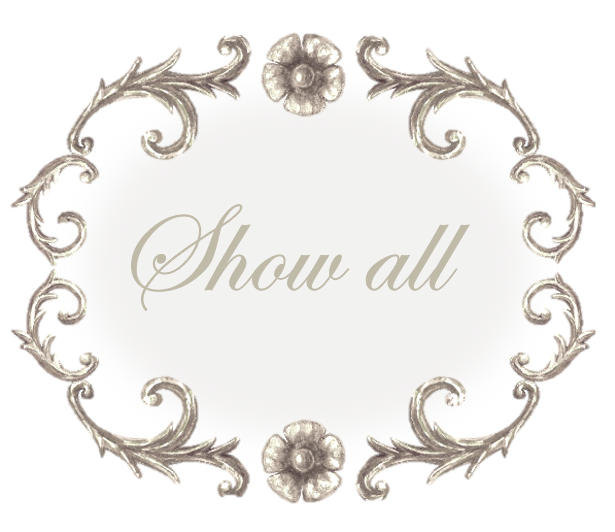
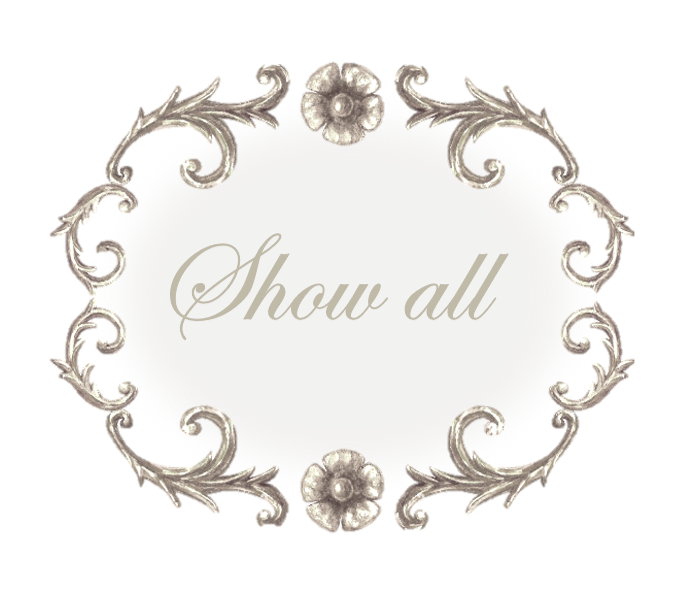
Cursors.

Changed region(s): [[0.0, 0.0602, 0.9886, 0.9624], [0.2163, 0.3609, 0.5561, 0.5714], [0.587, 0.4211, 0.7724, 0.5414]]

diff --git a/styles.css b/styles.css
@@ -5,6 +5,10 @@
     padding: 0;
 }
 
+html {
+    cursor: url("Images/Cursor.png"), auto;
+}
+
 #navbar {
     position: fixed;
     background-color: pink;
@@ -41,7 +45,7 @@
     background-repeat: no-repeat;
     background-position: bottom -2vw right -11vw;
     animation: pulse 1s linear infinite;
-    cursor: pointer;
+    cursor: url("Images/Cursor-pointer.png"), auto;
 }
 
 .left-side-decoration {
@@ -220,6 +224,7 @@
     opacity: 0;
     transition: all 300ms ease-in-out;
     cursor: pointer;
+    cursor: url("Images/Cursor-pointer.png"), auto;
 }
 
 /*END ABOUT*/
@@ -234,7 +239,46 @@
     background-repeat: no-repeat;
 }
 
+.divisor-margin {
+    display: flex;
+    justify-content: center;
+    align-items: center;
+    position: relative;
+}
+
 /*PROJECTS*/
+
+.projects-title {
+    height: 10vw;
+    width: 30%;
+    background-image: url(Images/Projects-title.png);
+    background-size: contain;
+    background-position: center;
+    background-repeat: no-repeat;
+    position: absolute;
+    z-index: 1;
+    margin-bottom: 0.5vw;
+}
+
+.projects-button {
+    width: 11vw;
+    height: 11vw;
+    position: absolute;
+    margin-right: 7vw;
+    margin-top: 13vw;
+    background-image: url(Images/Show-all.png);
+    background-size: contain;
+    background-position: center;
+    background-repeat: no-repeat;
+    transition: all 500ms;
+    cursor: pointer;
+}
+
+.projects-button:hover {
+    background-image: url(Images/Show-all-hover.png);
+    transform: scale(110%);
+    cursor: url("Images/Cursor-pointer.png"), auto;
+}
 
 .small-project {
     width: 7.5vw;
@@ -654,6 +698,7 @@
 .projects-container:has(.magazine-project:hover)>.project-container .magazine-project-description {
     opacity: 1;
     transition: all 500ms ease-in-out;
+    cursor: url("Images/Cursor-pointer.png"), auto;
 }
 
 .projects-container:has(.magazine-project:hover)>div.projects_backgrounds {
@@ -674,6 +719,7 @@
     opacity: 1;
     filter: blur(9px);
     transition: all 300ms ease-in-out;
+    cursor: url("Images/Cursor-pointer.png"), auto;
 }
 
 .projects-container:has(.lps-project:hover)>div.projects_backgrounds {
@@ -684,6 +730,7 @@
     opacity: 1;
     filter: blur(9px);
     transition: all 300ms ease-in-out;
+    cursor: url("Images/Cursor-pointer.png"), auto;
 }
 
 .projects-container:has(.registration-project:hover)>div.projects_backgrounds {
@@ -694,6 +741,7 @@
     opacity: 1;
     filter: blur(9px);
     transition: all 300ms ease-in-out;
+    cursor: url("Images/Cursor-pointer.png"), auto;
 }
 
 .projects-container:has(.survey-project:hover)>div.projects_backgrounds {
@@ -704,6 +752,7 @@
     opacity: 1;
     filter: blur(9px);
     transition: all 300ms ease-in-out;
+    cursor: url("Images/Cursor-pointer.png"), auto;
 }
 
 .projects-container:has(.beautymorphosy-project:hover)>div.projects_backgrounds {
@@ -714,6 +763,7 @@
     opacity: 1;
     filter: blur(9px);
     transition: all 300ms ease-in-out;
+    cursor: url("Images/Cursor-pointer.png"), auto;
 }
 
 .projects-container:has(.tribute-project:hover)>div.projects_backgrounds {
@@ -724,6 +774,7 @@
     opacity: 1;
     filter: blur(9px);
     transition: all 300ms ease-in-out;
+    cursor: url("Images/Cursor-pointer.png"), auto;
 }
 
 .projects-container:has(.ferris-wheel-project:hover)>div.projects_backgrounds {
@@ -734,6 +785,7 @@
     opacity: 1;
     filter: blur(9px);
     transition: all 300ms ease-in-out;
+    cursor: url("Images/Cursor-pointer.png"), auto;
 }
 
 .projects-container:has(.nutrition-project:hover)>div.projects_backgrounds {
@@ -744,6 +796,7 @@
     opacity: 1;
     filter: blur(9px);
     transition: all 300ms ease-in-out;
+    cursor: url("Images/Cursor-pointer.png"), auto;
 }
 
 .projects-container:has(.piano-project:hover)>div.projects_backgrounds {
@@ -754,6 +807,7 @@
     opacity: 1;
     filter: blur(9px);
     transition: all 300ms ease-in-out;
+    cursor: url("Images/Cursor-pointer.png"), auto;
 }
 
 .projects-container:has(.documentation-project:hover)>div.projects_backgrounds {
@@ -764,6 +818,7 @@
     opacity: 1;
     filter: blur(9px);
     transition: all 300ms ease-in-out;
+    cursor: url("Images/Cursor-pointer.png"), auto;
 }
 
 .projects-container:has(.memotest-project:hover)>div.projects_backgrounds {
@@ -774,6 +829,7 @@
     opacity: 1;
     filter: blur(9px);
     transition: all 300ms ease-in-out;
+    cursor: url("Images/Cursor-pointer.png"), auto;
 }
 
 .projects-container:has(.majesties-project:hover)>div.projects_backgrounds {
@@ -784,6 +840,7 @@
     opacity: 1;
     filter: blur(9px);
     transition: all 300ms ease-in-out;
+    cursor: url("Images/Cursor-pointer.png"), auto;
 }
 
 

diff --git a/portfolio.html b/portfolio.html
@@ -66,7 +66,9 @@
                 </div>
             </div>
         </section>
-        <div class="divisor-margin"></div>
+        <div class="divisor-margin">
+            <div class="projects-title"></div>
+        </div>
         <section id="projects">
             <div class="projects-container project-tile">
                 <div class="projects_backgrounds"></div>
@@ -128,7 +130,9 @@
                     <div class="majesties-project-description left-bottom-description"></div>
                 </div>
                 <div class="project-container"></div>
-                <div class="project-container"></div>
+                <div class="project-container">
+                    <div class="projects-button"><a href="https://github.com/Gemdelle?tab=repositories" target="_blank"></a></div>
+                </div>
                 <div class="project-container">
                     <div class="piano piano-project small-project"><a
                             href="https://github.com/Gemdelle/fCC-RWD-12-Piano" target="_blank"></a></div>
